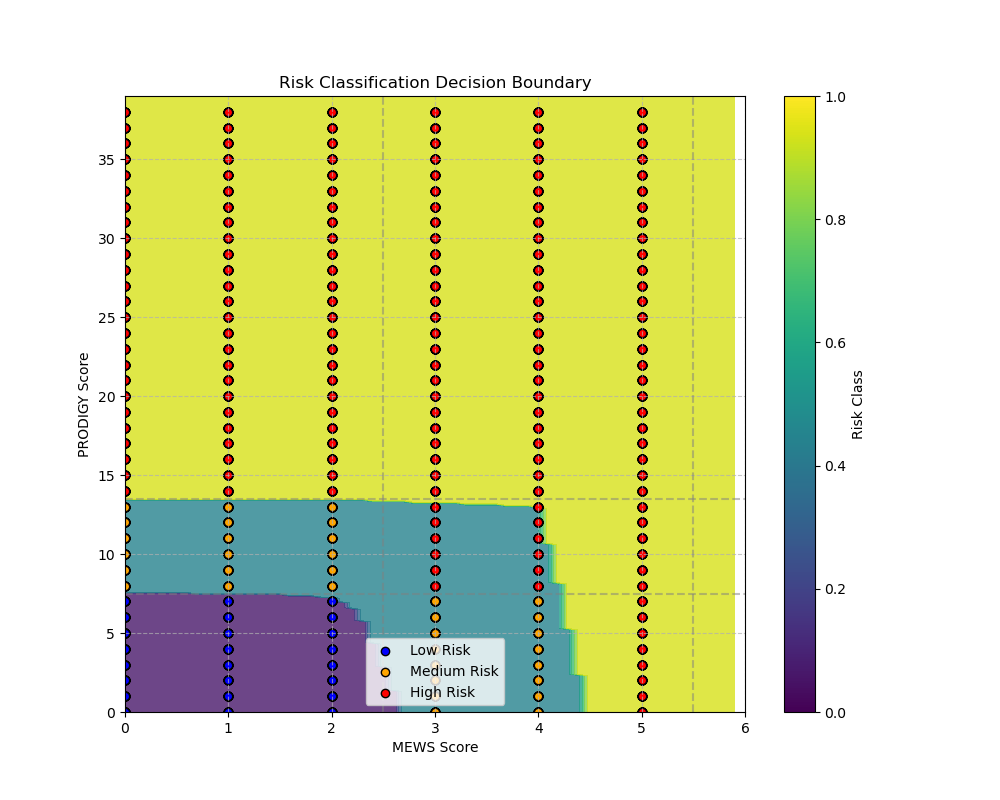
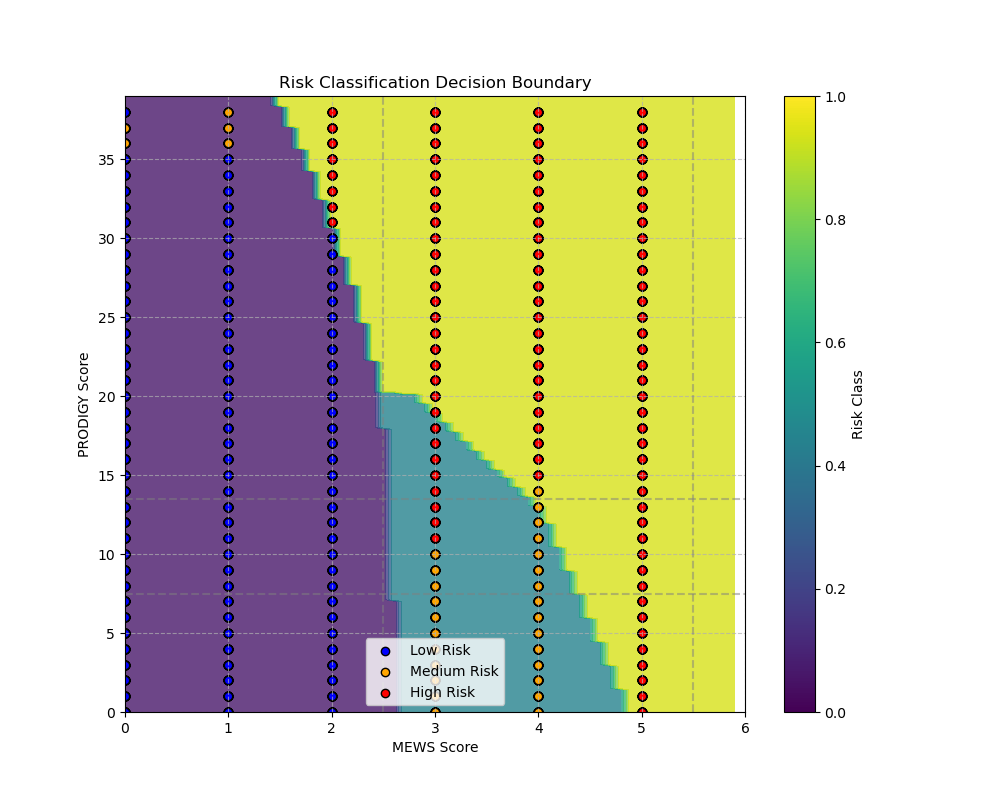
GHJ

Changed region(s): [[0.124, 0.0938, 0.651, 0.9062]]

diff --git a/NN/risk_neural_network.py b/NN/risk_neural_network.py
@@ -35,7 +35,7 @@ def create_model(num_hidden_units=8, num_hidden_layers=1):
     
     return model
 
-def generate_synthetic_data(n_samples=100000):
+def generate_synthetic_data(n_samples=10000):
     """
     Generate synthetic training data based on the given ranges:
     MEWS: 0-2 (low), 3-5 (medium), 6+ (high)
@@ -53,31 +53,43 @@ def generate_synthetic_data(n_samples=100000):
     # Simple rule-based classification for synthetic data
     for i in range(n_samples):
         # Determine MEWS risk
-        if mews[i] <= 2:
+        # Determine MEWS risk
+        if mews[i] <= 1:
             mews_risk = 0  # low
-        elif mews[i] < 5:
+        elif mews[i] <= 3:
             mews_risk = 1  # medium
         else:
             mews_risk = 2  # high
-            
-        # Determine PRODIGY risk
-        if prodigy[i] <= 7:
+
+        # Determine PRODIGY risk with corrected thresholds
+        if prodigy[i] <= 10:
             prodigy_risk = 0  # low
-        elif prodigy[i] <= 13:
+        elif prodigy[i] <= 25:
             prodigy_risk = 1  # medium
         else:
             prodigy_risk = 2  # high
-            
+
         # Combined risk (taking the higher risk level)
         labels[i] = max(mews_risk, prodigy_risk)
 
-        
-        # Optionally make some adjustments to create more complex patterns
-        # For example, if both are medium risk, there's a chance it becomes high risk
+        # Introduce some nuanced adjustments for more complex boundaries
         if mews_risk == 1 and prodigy_risk == 1:
-            if np.random.random() < 0.3:  # 30% chance
+            if np.random.random() < 0.3:  # 30% chance of bumping up to high risk
                 labels[i] = 2
-    
+
+        # Additional condition to shape the decision boundary curves
+        if mews[i] < 3:
+            if np.random.random() * float(prodigy[i])/39 < 0.9:  # 30% chance of bumping up to high risk
+                labels[i] = 0
+            else:
+                labels[i]  = 1
+        if mews[i] == 3 and prodigy[i] > 20:
+            labels[i] = 2
+        if mews[i] == 2 and prodigy[i] > 30:
+            labels[i] = 2
+        if mews[i] == 4 and prodigy[i] < 15:
+            labels[i] = 1
+        
     return np.column_stack((mews, prodigy)), labels
 
 def plot_decision_boundary(model, scaler, X_train, y_train):
